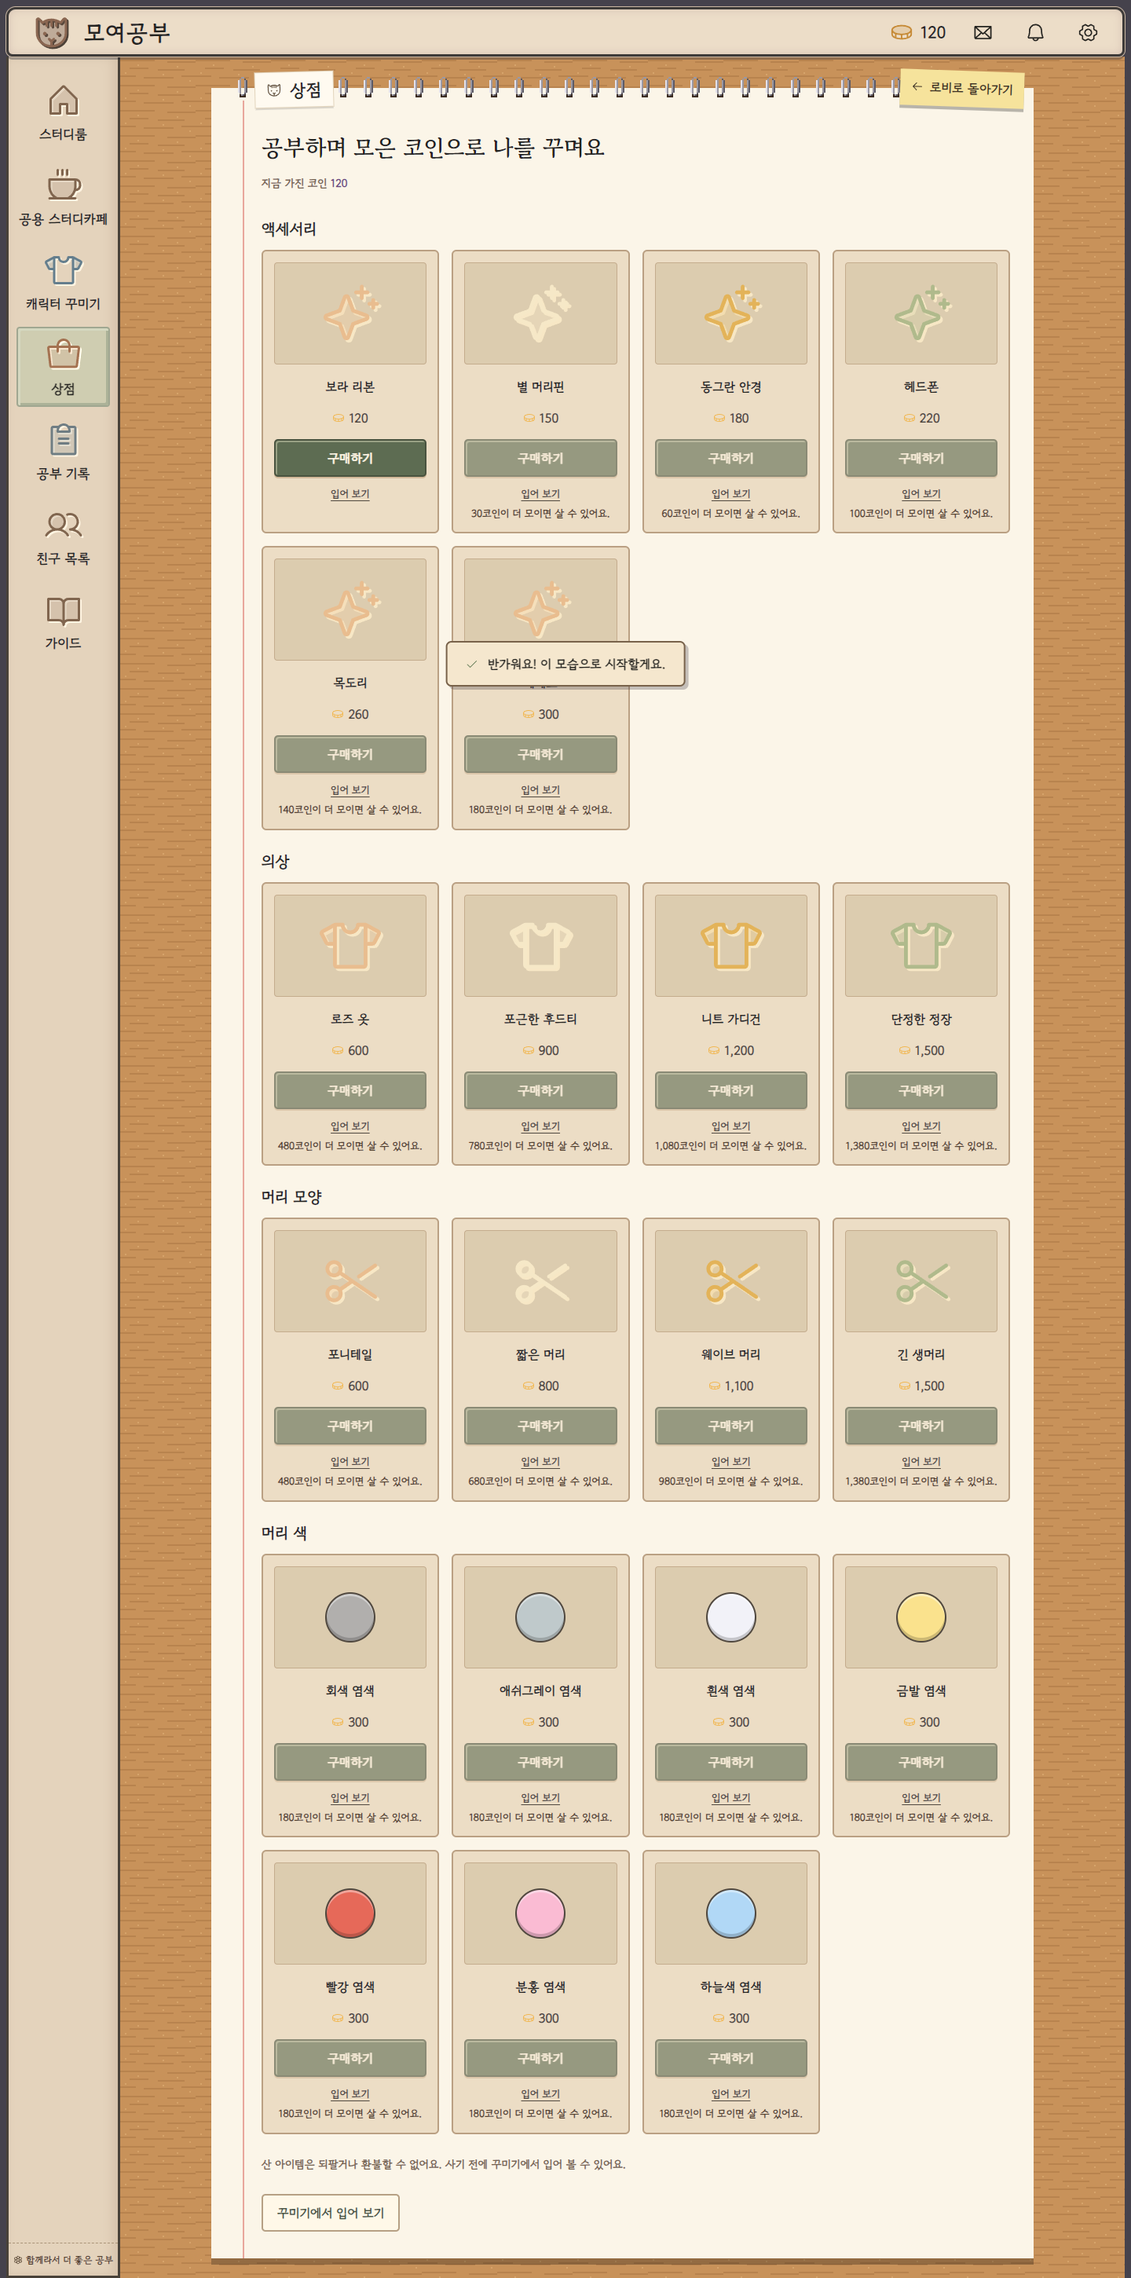
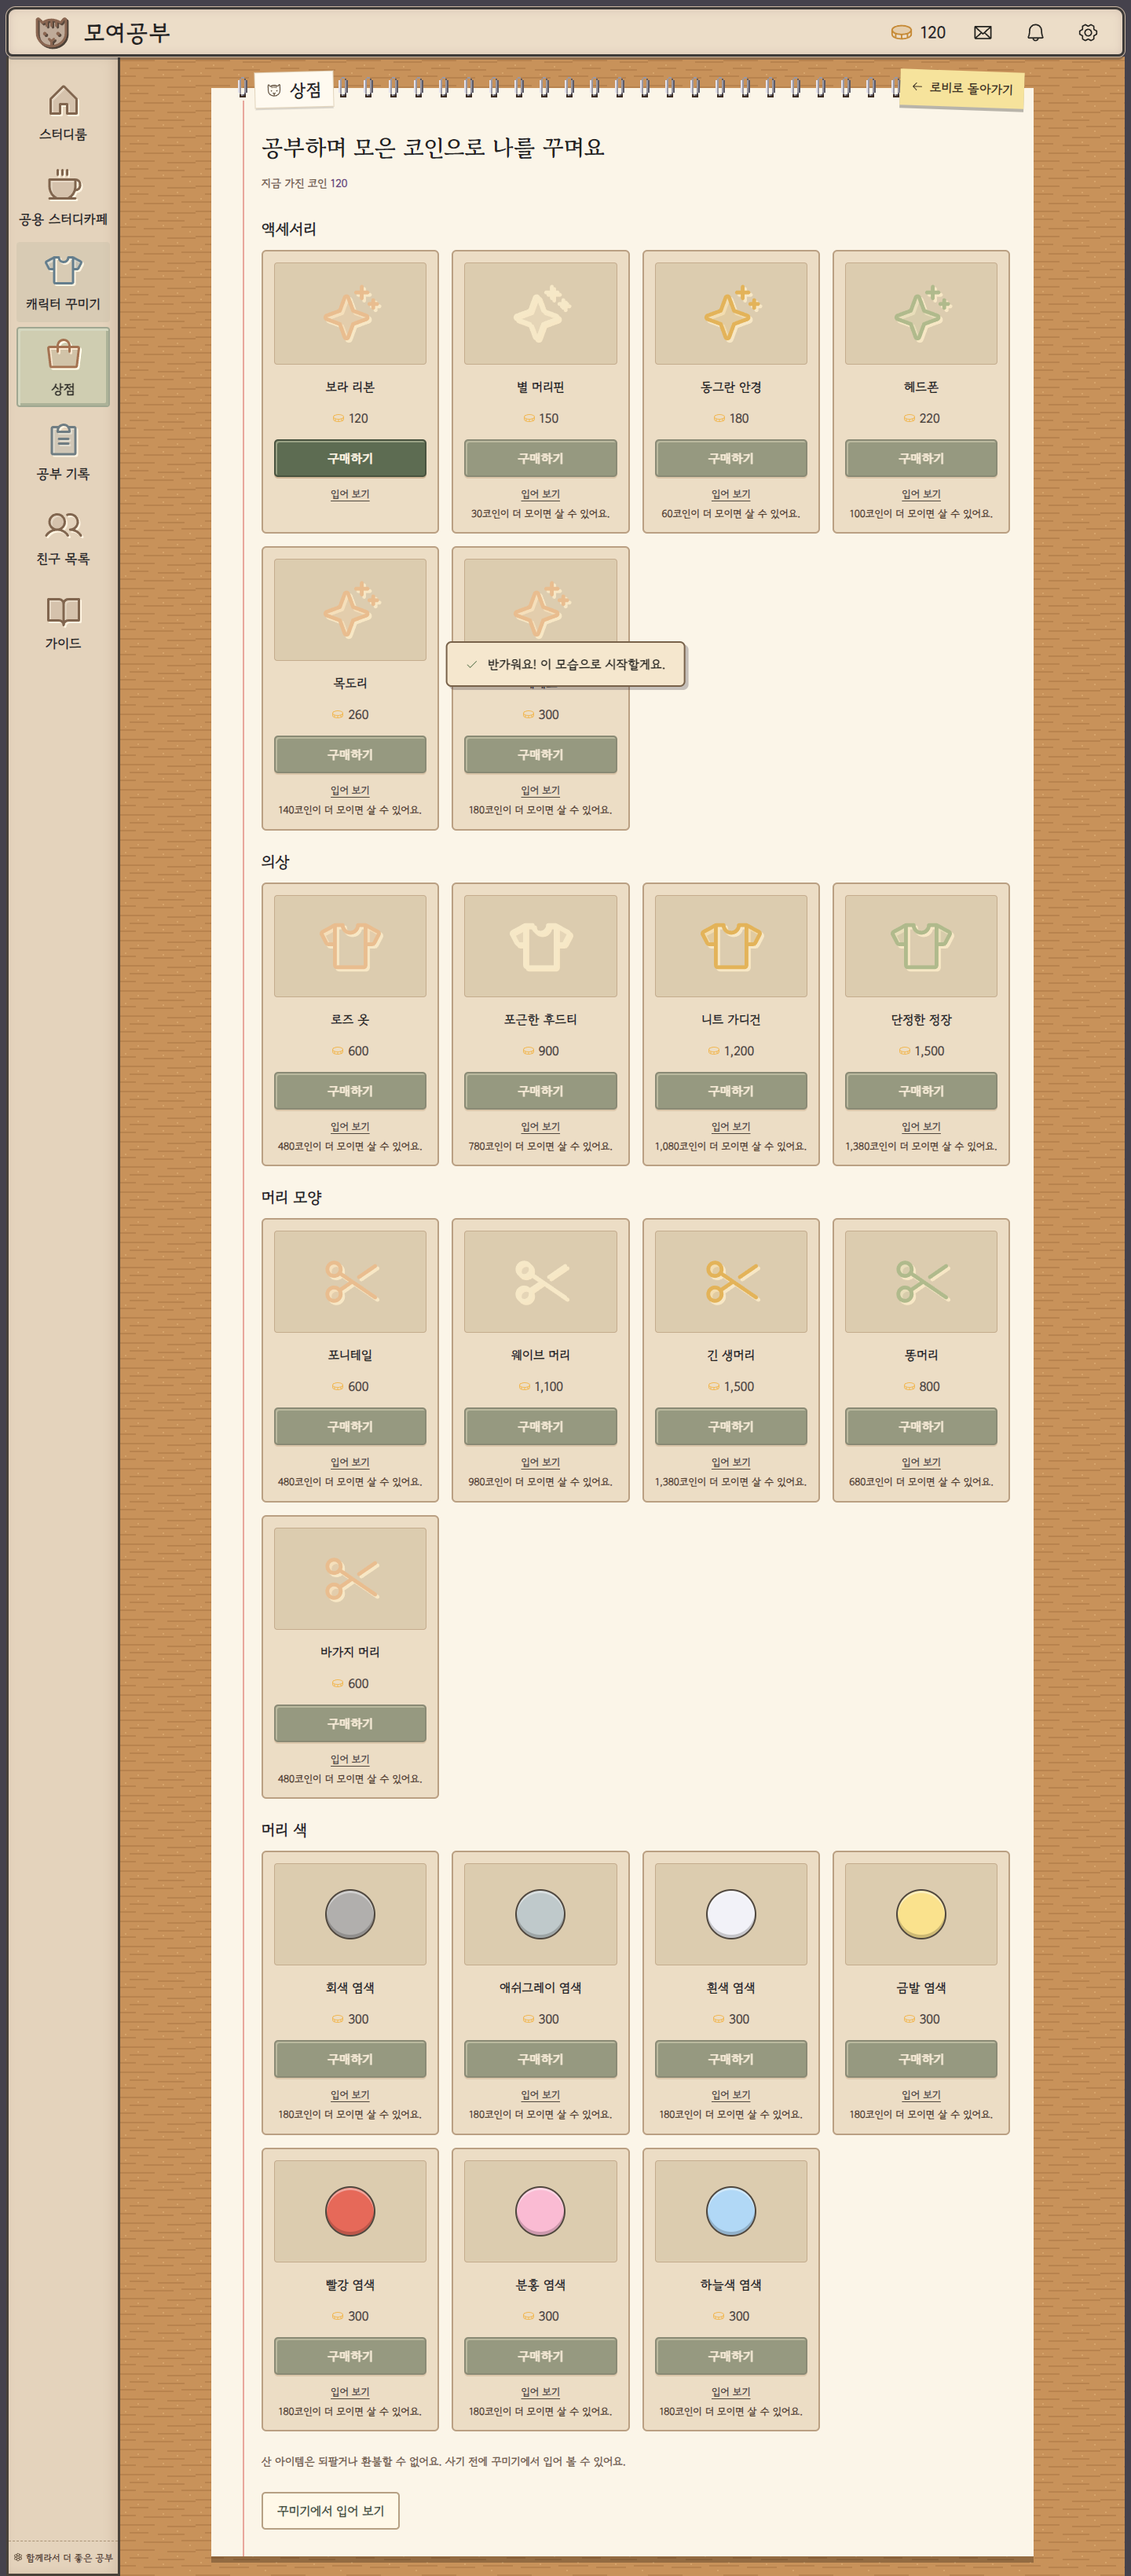
feat: five more hair styles from pixen edits, cover peeking bald skull
포니테일, 긴 생머리, 똥머리, 바가지 머리 and 짧은 바가지 머리, each from
three 1-generation edit_image_pixen edits of the base rotations (one
retry for the short bowl), dyed into all ten colors. 18 generations for
five styles instead of 50.

- coverBaldPeeks: where a generated head is drawn smaller than the bald
  base skull (side and back views of the bun and ponytail), the peeking
  skull above eye level is filled with hair, the new edge gets the hair
  outline color and the old outline inside it the hair color
- 짧은 머리 becomes the free male default 짧은 바가지 머리; new shop items
  똥머리 (800) and 바가지 머리 (600) in the unapplied migration

Story: story-009-pixel-art

Claude-Session: https://claude.ai/code/session_01HWhC6cf8F1yVMHeXCiKLYb

diff --git a/src/config/shop.ts b/src/config/shop.ts
@@ -53,8 +53,14 @@ export const ITEM_ASSETS: Readonly<Record<string, ItemAsset>> = {
   "face-blue": face("face-blue", "#285cc4"),
   "face-gray": face("face-gray", "#6c727e"),
   // 머리 모양. 웨이브는 처음 승인한 N1 머리카락이다 (art-src/characters/src/hair/wave).
-  // 단발 머리(기본): 기본 몸 세 방향을 PixelLab pixen으로 한 장씩 고친 머리 (art-src/characters/src/hair/bob).
+  // 아래 머리 모양은 기본 몸 세 방향을 PixelLab pixen으로 한 장씩 고친 머리 (art-src/characters/src/hair/<모양>).
+  // 단발 머리(여자 기본), 짧은 바가지 머리(남자 기본)는 무료.
   "hair-basic": hairStyle("bob"),
+  "hair-short": hairStyle("shortbowl"),
+  "hair-ponytail": hairStyle("ponytail"),
+  "hair-long": hairStyle("long"),
+  "hair-bun": hairStyle("bun"),
+  "hair-bowl": hairStyle("bowl"),
   "hair-wave": hairStyle("wave"),
   // 머리 색 (art-src/characters/src/recolor/hair-color/<색>.json, 라벤더는 원재료 색 그대로).
   "hair-color-black": hairColor("black", "#3a3848"),
@@ -76,9 +82,6 @@ export const ITEM_ASSETS: Readonly<Record<string, ItemAsset>> = {
   "outfit-hoodie": { placeholder: true, layers: {}, bodyTint: "outfit-세이지" },
   "outfit-cardigan": { placeholder: true, layers: {}, bodyTint: "outfit-로즈" },
   "outfit-suit": { placeholder: true, layers: {} },
-  "hair-ponytail": { placeholder: true, layers: {} },
-  "hair-short": { placeholder: true, layers: {} },
-  "hair-long": { placeholder: true, layers: {} },
   "acc-hairpin": { placeholder: true, layers: {} },
   "acc-glasses": { placeholder: true, layers: {} },
   "acc-headphones": { placeholder: true, layers: {} },

diff --git a/design/game-brief.md b/design/game-brief.md
@@ -94,8 +94,8 @@ UI 문구에는 가운뎃점을 쓰지 않는다.
 - 책상 꾸밈은 사람을 따라다니는 "내 책상 세트"다 (슬롯 4개). 어느 회사 방 어느 자리에 앉든 내 세트가 펼쳐지고, 빈 자리는 기본 책상이다. 내 방 책상에도 같은 세트가 놓인다 (2026-10-31 결정).
 - 로비(집, 내 방)에도 꾸미기 슬롯을 둔다: 커튼, 벽 액자, 벽 선반, 침대 이불, 러그, 화분, 그리고 책상 (2026-10-31 결정). 슬롯 위치와 그림 요구사항은 `design/quick-specs/room-decor-slots.md`.
 
-- 첫 출시 상점: 캐릭터 아이템만 (액세서리 6, 의상 4, 머리 모양 4, 머리 색 8). 머리 모양과 머리 색은 따로 고르고, 산 색은 모든 머리 모양에 쓴다 (2026-10-31 결정). 책상 소품과 공용 가구는 방 꾸미기 슬롯과 함께 올린다.
-- 가입 시 기본 몸, 눈 색 7종 (보라, 검정, 갈색, 호박색, 초록, 파랑, 회색), 단발 머리 (그림이 생기기 전까지는 머리카락 없음), 머리 색 3종 (검정, 밤색, 라벤더), 의상 2종 무료. 처음 모습은 단발 머리, 검은 머리, 검은 눈, 환영 선물 120코인 (우편). 입어 보기 가능, 환불과 되팔기 없음.
+- 첫 출시 상점: 캐릭터 아이템만 (액세서리 6, 의상 4, 머리 모양 5, 머리 색 7). 머리 모양과 머리 색은 따로 고르고, 산 색은 모든 머리 모양에 쓴다 (2026-10-31 결정). 책상 소품과 공용 가구는 방 꾸미기 슬롯과 함께 올린다.
+- 가입 시 기본 몸, 눈 색 7종 (보라, 검정, 갈색, 호박색, 초록, 파랑, 회색), 머리 모양 2종 (단발, 짧은 바가지), 머리 색 3종 (검정, 밤색, 라벤더), 의상 2종 무료. 처음 모습은 단발 머리, 검은 머리, 검은 눈, 환영 선물 120코인 (우편). 입어 보기 가능, 환불과 되팔기 없음.
 
 | 품목 | 가격 (코인) | 공부 시간 환산 |
 |---|---|---|

diff --git a/production/epics/moyeogongbu/story-009-pixel-art.md b/production/epics/moyeogongbu/story-009-pixel-art.md
@@ -68,12 +68,13 @@
 - 기본 (무료)
   - 몸: `body-basic`
   - 얼굴: `face-basic` (보라 눈), 눈 색 6종 (2026-10-31 추가, 눈동자 색만 바꿈): `face-black`, `face-brown`, `face-amber`, `face-green`, `face-blue`, `face-gray`
-  - 머리 모양: `hair-basic` (단발 머리, 생성 전까지 머리카락 없음)
+  - 머리 모양: `hair-basic` (단발 머리, 여자 기본), `hair-short` (짧은 바가지 머리, 남자 기본)
   - 머리 색 3종: `hair-color-black` (처음 모습), `hair-color-chestnut`, `hair-color-lavender`
   - 의상 2종: `outfit-lavender`, `outfit-sage`
 - 상점 액세서리 6종: `acc-ribbon`, `acc-hairpin`, `acc-glasses`, `acc-headphones`, `acc-scarf`, `acc-beret`
 - 상점 의상 4종: `outfit-rose`, `outfit-hoodie`, `outfit-cardigan`, `outfit-suit`
-- 상점 머리 모양 4종: `hair-ponytail`, `hair-short`, `hair-wave` (N1의 긴 웨이브 머리), `hair-long` (각각 뒷머리, 앞머리)
+- 상점 머리 모양 5종: `hair-ponytail`, `hair-wave` (N1의 긴 웨이브 머리), `hair-long`, `hair-bun` (똥머리), `hair-bowl` (바가지 머리)
+- 머리 모양은 기본 몸 세 방향(south, west, north)을 PixelLab edit_image_pixen으로 한 장씩 고쳐 만든다 (모양당 3회). 웨이브만 create_character_state(10회)
 - 상점 머리 색 7종 (2026-10-31 추가, 300코인, 모든 머리 모양에 쓴다): `hair-color-gray`, `hair-color-ashgray`, `hair-color-white`, `hair-color-blonde`, `hair-color-red`, `hair-color-pink`, `hair-color-skyblue`
 - 머리 시트는 모양마다 10색: `hair-<모양>-<색>-front.png`, `-back.png` (모양은 라벤더로 생성하고 색은 색 띠 바꾸기)
 
